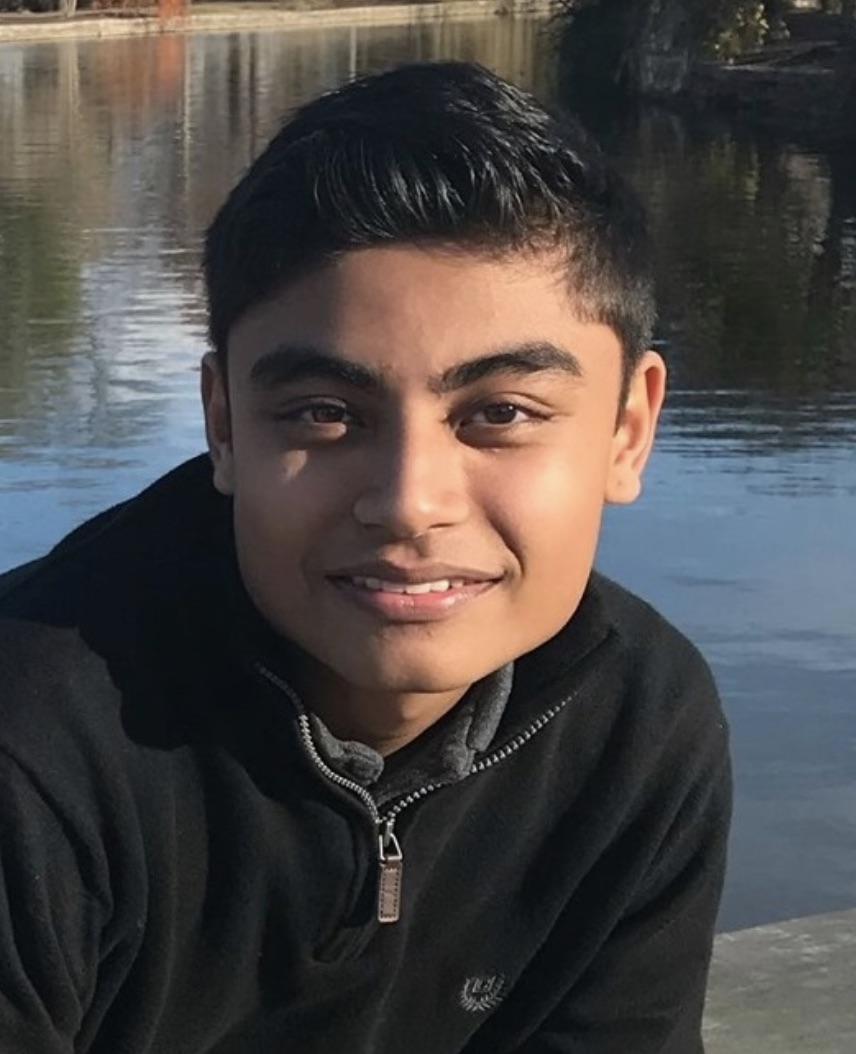
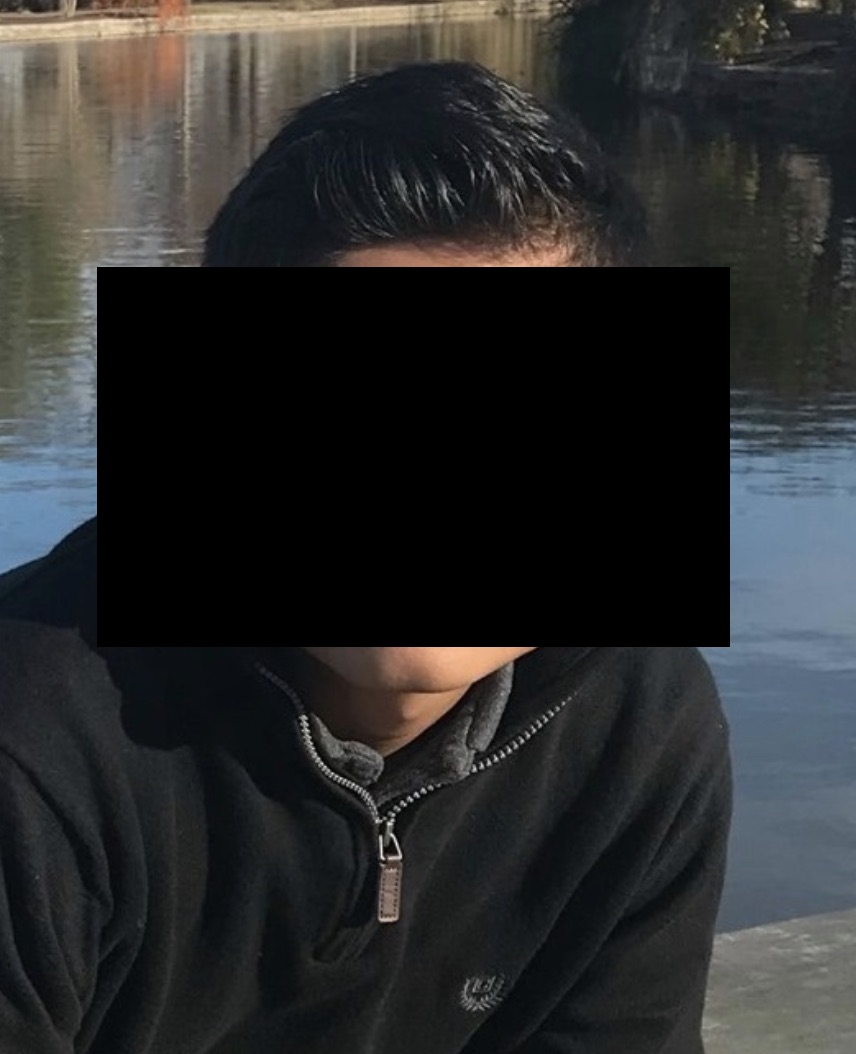
Anonymized

Changed region(s): [[0.0911, 0.2429, 0.8505, 0.6376]]

diff --git a/aboutme.html b/aboutme.html
@@ -40,7 +40,7 @@
                 </li>
                 <li class="nav-item">
                     <a class="nav-link interface-color ml-4 navy"
-                        href="https://drive.google.com/file/d/1f4n33QDsBeQdxT9qdbDY6qXa0ZavjgOy/view?usp=sharing"
+                        href="https://drive.google.com/file/d/1NPWsovyV6IvtB8nHphq9SoOGp_2Q6ygL/view?usp=sharing"
                         target="_blank">Resume</a>
                 </li>
             </ul>
@@ -62,7 +62,7 @@
                 <img src="Assets/propic.jpg" class="rounded" style="width:80%; border-style: solid;">
             </div>
             <div class="col-md-6 col-sm-12">
-                <h4> Hi, I'm Rujul</h4>
+                <h4> Hi, I'm Name</h4>
                 <p style="font: x-large;"> I grew up in Cincinnati, Ohio - and I'm currently studying Computer
                     Science-Economics at <span class="navy">Brown University</span>. I'm set to graduate this December,
                     and will be moving to San
@@ -86,7 +86,7 @@
             <div class="col-10 text-center">
                 <h3>Contact Me</h3>
                 <h6>Anything you see interest you? Feel free to shoot me an email at <a
-                        href=mailto:rujul_singh@brown.edu target="_blank" class="navy">rujul_singh@brown.edu</a></h6>
+                        href=mailto:rujul_singh@brown.edu target="_blank" class="navy">first_last@brown.edu</a></h6>
             </div>
             <div class="col-1">
             </div>
@@ -97,8 +97,8 @@
             <div class="col-3">
             </div>
             <div class="col-6 text-center">
-                <h6>You can find me on LinkedIn <a href=https://www.linkedin.com/in/rujul-s-a34a25113/ target="_blank"
-                        class="navy">here</a></h6>
+                <h6>You can find me on LinkedIn <a href=https://www.linkedin.comtarget="_blank" class="navy">here</a>
+                </h6>
             </div>
             <div class="col-3">
             </div>

diff --git a/home.html b/home.html
@@ -41,7 +41,7 @@
                 </li>
                 <li class="nav-item">
                     <a class="nav-link interface-color ml-4 navy"
-                        href="https://drive.google.com/file/d/1f4n33QDsBeQdxT9qdbDY6qXa0ZavjgOy/view?usp=sharing"
+                        href="https://drive.google.com/file/d/1NPWsovyV6IvtB8nHphq9SoOGp_2Q6ygL/view?usp=sharing"
                         target="_blank">Resume</a>
                 </li>
             </ul>
@@ -55,7 +55,7 @@
             <div class="col-3">
             </div>
             <div class="col-9">
-                <h1>Hi, I'm <span class="navy"><u>Rujul</u>.</span> </h1>
+                <h1>Hi, I'm <span class="navy"><u>Name</u>.</span> </h1>
             </div>
         </div>
         <!-- Ending tag for the "Name" row-->
@@ -178,7 +178,7 @@
             <div class="col-6 text-center">
                 <h3>Contact Me</h3>
                 <h6>Anything you see interest you? Feel free to shoot me an email at <a
-                        href=mailto:rujul_singh@brown.edu target="_blank" class="navy">rujul_singh@brown.edu</a></h6>
+                        href=mailto:rujul_singh@brown.edu target="_blank" class="navy">first_last@brown.edu</a></h6>
             </div>
             <div class="col-3">
             </div>
@@ -189,8 +189,8 @@
             <div class="col-3">
             </div>
             <div class="col-6 text-center">
-                <h6>You can find me on LinkedIn <a href=https://www.linkedin.com/in/rujul-s-a34a25113/ target="_blank"
-                        class="navy">here</a></h6>
+                <h6>You can find me on LinkedIn <a href=https://www.linkedin.com target="_blank" class="navy">here</a>
+                </h6>
             </div>
             <div class="col-3">
             </div>

diff --git a/portfolio1.html b/portfolio1.html
@@ -41,7 +41,7 @@
                 </li>
                 <li class="nav-item">
                     <a class="nav-link interface-color ml-4 navy"
-                        href="https://drive.google.com/file/d/1f4n33QDsBeQdxT9qdbDY6qXa0ZavjgOy/view?usp=sharing"
+                        href="https://drive.google.com/file/d/1NPWsovyV6IvtB8nHphq9SoOGp_2Q6ygL/view?usp=sharing"
                         target="_blank">Resume</a>
                 </li>
             </ul>
@@ -125,9 +125,6 @@
                 <a href=https://grocery-list-csci1300.herokuapp.com/ target="_blank"> <button class="button"
                         style="margin-top: 20px;">Link
                         to Website</button></a>
-                <a href=https://github.com/singhru27/grocery-list target="_blank"> <button class="button"
-                        style="margin-top: 20px;">Link
-                        to Github Repo</button></a>
             </div>
             <!-- End of column for button linking to the website-->
         </div>

diff --git a/portfolio2.html b/portfolio2.html
@@ -41,7 +41,7 @@
                 </li>
                 <li class="nav-item">
                     <a class="nav-link interface-color ml-4 navy"
-                        href="https://drive.google.com/file/d/1f4n33QDsBeQdxT9qdbDY6qXa0ZavjgOy/view?usp=sharing"
+                        href="https://drive.google.com/file/d/1NPWsovyV6IvtB8nHphq9SoOGp_2Q6ygL/view?usp=sharing"
                         target="_blank">Resume</a>
                 </li>
             </ul>

diff --git a/portfolio3.html b/portfolio3.html
@@ -41,7 +41,7 @@
                 </li>
                 <li class="nav-item">
                     <a class="nav-link interface-color ml-4 navy"
-                        href="https://drive.google.com/file/d/1f4n33QDsBeQdxT9qdbDY6qXa0ZavjgOy/view?usp=sharing"
+                        href="https://drive.google.com/file/d/1NPWsovyV6IvtB8nHphq9SoOGp_2Q6ygL/view?usp=sharing"
                         target="_blank">Resume</a>
                 </li>
             </ul>

diff --git a/portfolio4.html b/portfolio4.html
@@ -42,7 +42,7 @@
                 </li>
                 <li class="nav-item">
                     <a class="nav-link interface-color ml-4 navy"
-                        href="https://drive.google.com/file/d/1f4n33QDsBeQdxT9qdbDY6qXa0ZavjgOy/view?usp=sharing"
+                        href="https://drive.google.com/file/d/1NPWsovyV6IvtB8nHphq9SoOGp_2Q6ygL/view?usp=sharing"
                         target="_blank">Resume</a>
                 </li>
             </ul>
